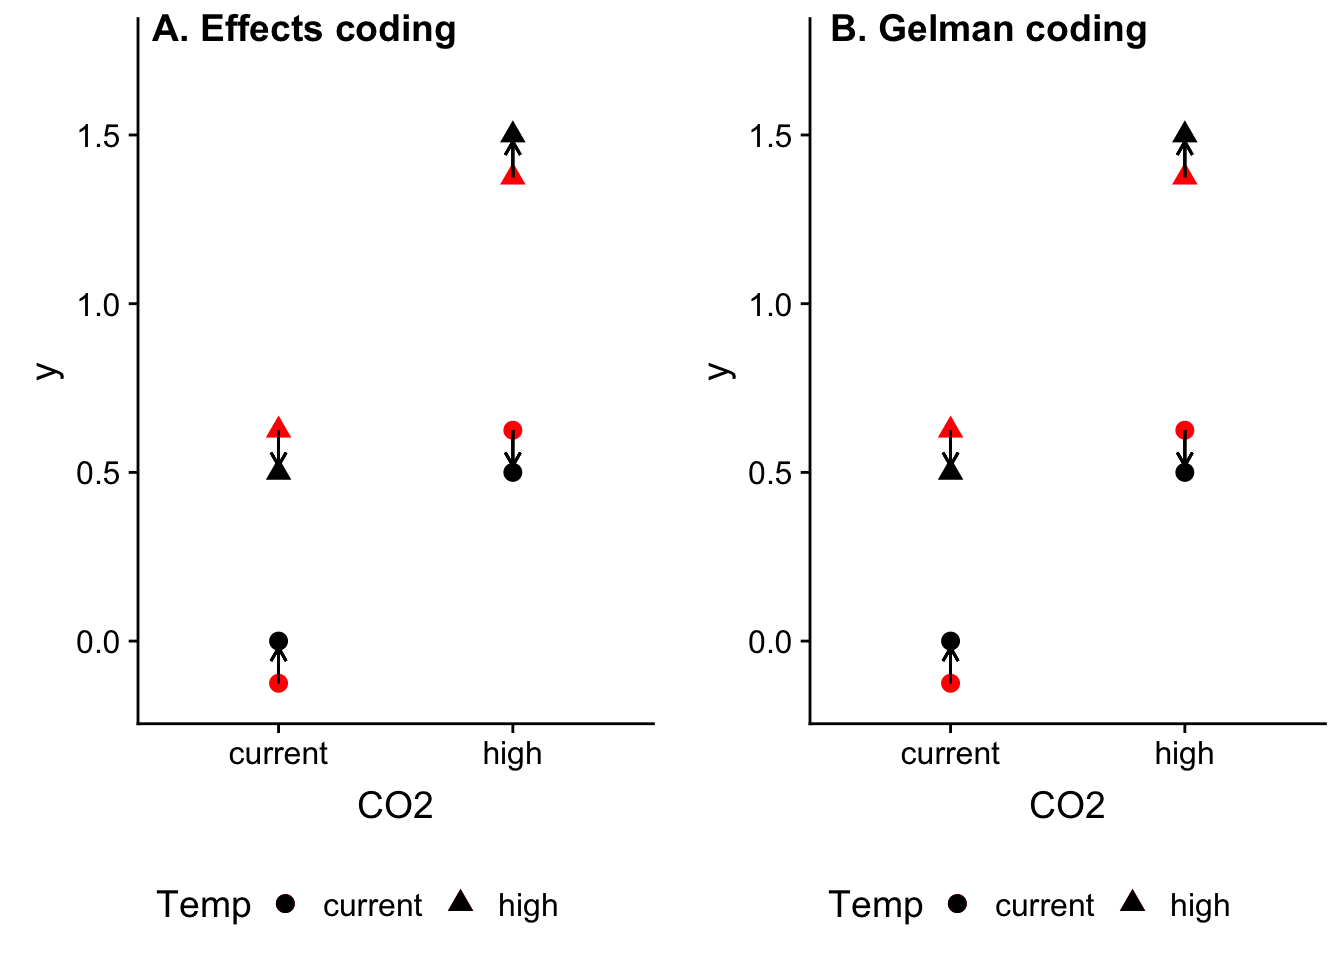
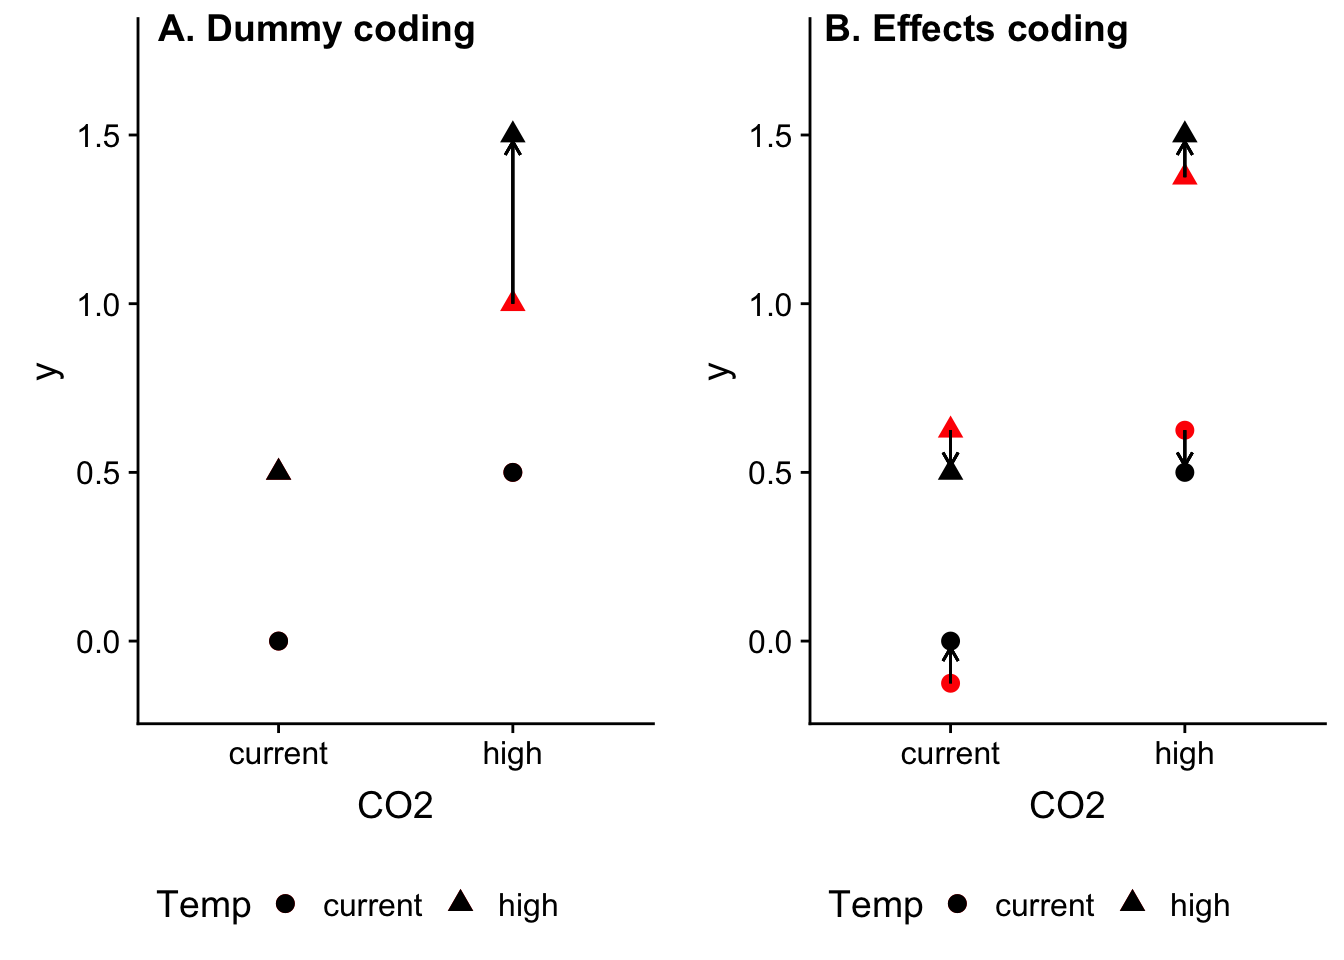
update power of interaction

diff --git a/public/2019/07/is-the-power-to-test-an-interaction-effect-less-than-that-for-a-main-effect/index.html b/public/2019/07/is-the-power-to-test-an-interaction-effect-less-than-that-for-a-main-effect/index.html
@@ -312,8 +312,8 @@ if (!doNotTrack) {
 
 
 <p>I was googling around and somehow landed on a page that stated <a href="https://www.methodology.psu.edu/ra/most/femiscon/">“When effect coding is used, statistical power is the same for all regression coefficients of the same size, whether they correspond to main effects or interactions, and irrespective of the order of the interaction”</a>. Really? How could this be? The p-value for an interaction effect is the same regardless of dummy or effects coding, and, with dummy coding (R’s default), the power of the interaction effect is less than that of the coefficients for the main factors when they have the same magnitude, so my intuition said this statement must be wrong.</p>
-<p><strong>TL;DR</strong> It depends on how one defines “main” effect. If defined as the coefficient of a factor from a dummy-coded model, the power to test the interaction is less than that for a main effect if the two effects have the same magnitude. But, if defined as the coefficient of a factor from an effects-coded model, the power to test the interaction is the same as that for the main effect, if the two have equal magnitude (just as the source states). A question is, <strong>is the coefficient of the interaction as a measure of “effect” using dummy coding misleading since the interaction is entirely allocated to one mean?</strong>. Effects coding divides this magntiude and distributes it among all four means, which makes sense.</p>
-<p><strong>Updated</strong> Andrew Gelman has a highly relevant blog post <a href="https://statmodeling.stat.columbia.edu/2018/03/15/need-16-times-sample-size-estimate-interaction-estimate-main-effect/">You need 16 times the sample size to estimate an interaction than to estimate a main effect</a> that is really minimal in that it focusses entirely on the standard error. Gelman effectively used a -0.5, +0.5 contrast coding but added an update with -1, +1 (effects) coding. This coding is interesting and explored below.</p>
+<p><strong>TL;DR</strong> It depends on how one defines “main” effect or how one parameterizes the model. If “main” effect is defined as the coefficient of a factor from a dummy-coded model (that is, the added effect due to treatment), the power to test the interaction is less than that for a main effect if the two effects have the same magnitude. But, if defined as the coefficient of a factor from an effects-coded model, the power to test the interaction is the same as that for the main effect, if the two have equal magnitude (just as the source states). A question is, <strong>is the coefficient of the interaction as a measure of “effect” using dummy coding misleading since the interaction is entirely allocated to one mean?</strong>. Or, does it make sense, at least for experiments where we think of the effect of the non-reference (or non “control”) levels as “what happens” when we add stuff to the control.</p>
+<p><strong>Updated</strong> I read this when it was posted but forgot about it when I startede this doodle: Andrew Gelman has a highly relevant blog post <a href="https://statmodeling.stat.columbia.edu/2018/03/15/need-16-times-sample-size-estimate-interaction-estimate-main-effect/">You need 16 times the sample size to estimate an interaction than to estimate a main effect</a> that is really minimal in that it focusses entirely on the standard error. Gelman effectively used a -0.5, +0.5 contrast coding but added an update with -1, +1 (effects) coding. This coding is interesting and explored below.</p>
 <div id="some-definitions" class="section level2">
 <h2>Some definitions</h2>
 <p>Consider a <span class="math inline">\(2 \times 2\)</span> factorial experiment, factor A has two levels (-, +), factor B has two levels (-, +), and the means of the combinations are</p>
@@ -453,9 +453,53 @@ intercept
 </div>
 <div id="visualizing-interaction-effects" class="section level2">
 <h2>Visualizing interaction effects</h2>
-<p>In (A) the coefficients of the model are (0, 0.5, 0.5, 0.5) and if we interpret the coefficients as “effects” then the interaction effect is the same as the “main” effects. The interaction effect is shown by the single arrow and it is applied to <span class="math inline">\(\mu_{22}\)</span> only</p>
-<p>In (B), the data are precisely the same as in (A) but interaction is visualized using a model fit using effects coding. The cofficients of the model using effects coding are (0.625, -0.375, -0.375, 0.125) and if we interpret the coefficients as the effects the interaction is 1/3 the magnitude of the main effects. Again, this is the same data as in (A). The interaction is applied to all four means – there isn’t “an” interaction effect but four. And note that the sum of the four interaction effects equals the sum of the one effect in (A).</p>
-<p>So, how we think about the “magnitude” of the interaction depends on how we parameterize the model. I’m coming around to thinking that the interaction “effect” using the interaction coefficient in the dummy coded model (that in A) is an illusion – that is, a better way to think about this is “spreading” it out among all means as in B.</p>
+<p>Given a set of means</p>
+<pre class="r"><code>means_table &lt;- data.frame(c(&quot;$\\mu_{11}=0$&quot;, &quot;$\\mu_{21}=0.5$&quot;), c(&quot;$\\mu_{12}=0.5$&quot;, &quot;$\\mu_{22}=1.5$&quot;))
+row.names(means_table) &lt;- c(&quot;A-&quot;, &quot;A+&quot;)
+colnames(means_table) &lt;- c(&quot;B-&quot;, &quot;B+&quot;)
+kable(means_table, escape = FALSE)</code></pre>
+<table>
+<thead>
+<tr>
+<th style="text-align:left;">
+</th>
+<th style="text-align:left;">
+B-
+</th>
+<th style="text-align:left;">
+B+
+</th>
+</tr>
+</thead>
+<tbody>
+<tr>
+<td style="text-align:left;">
+A-
+</td>
+<td style="text-align:left;">
+<span class="math inline">\(\mu_{11}=0\)</span>
+</td>
+<td style="text-align:left;">
+<span class="math inline">\(\mu_{12}=0.5\)</span>
+</td>
+</tr>
+<tr>
+<td style="text-align:left;">
+A+
+</td>
+<td style="text-align:left;">
+<span class="math inline">\(\mu_{21}=0.5\)</span>
+</td>
+<td style="text-align:left;">
+<span class="math inline">\(\mu_{22}=1.5\)</span>
+</td>
+</tr>
+</tbody>
+</table>
+<p>To generate these data using dummy coding, the coefficients are (0, .5, .5, .5) and using effects coding the coefficients are (.625, -.375, -.375, .125). The interaction coefficient is illustrated below.</p>
+<p>In the dummy coded paramterization (A), if we interpret the coefficients as “effects” then the interaction effect is the same as the “main” effects. The interaction effect is shown by the single arrow and it is applied to <span class="math inline">\(\mu_{22}\)</span> only</p>
+<p>In the effects coded paramterization (B), the means are precisely the same as in (A), and if we interpret the coefficients as the effects, then the interaction effect is 1/3 the magnitude of the main effects. Again, these are the same means as in (A). The difference with A is that the interaction is applied to all four means – there isn’t “an” interaction effect but four. And note that the sum of the four interaction effects equals the sum of the one effect in (A).</p>
+<p>So, how we think about the “magnitude” of the interaction depends on how we parameterize the model or how we think about the effects. If we think of the non-reference (“treated”) levels of Factors A and B (CO2 and Temp) as “adding” something to the control’s value, then, thinking about an interaction using dummy coding makes sense. But if we think about the levels of a factor as simply being variable about a mean, then the interaction using effects coding makes sense, though I might be inclined to model this using a hierarchical rather than fixed effects model.</p>
 <pre class="r"><code>dummy_2_effects &lt;- function(b){
 
   b3 &lt;- numeric(4)
@@ -508,8 +552,8 @@ gg.effects &lt;- ggplot(data=fd, aes(x=CO2, y=y3.a, shape=Temp)) +
   NULL
 
 plot_grid(gg.dummy, gg.effects, ncol=2, labels=c(&quot;A. Dummy coding&quot;, &quot;B. Effects coding&quot;))</code></pre>
-<div class="figure"><span id="fig:unnamed-chunk-3"></span>
-<img src="/post/2019-07-02-is-the-power-to-test-an-interaction-effect-less-than-that-for-a-main-effect_files/figure-html/unnamed-chunk-3-1.png" alt="illustration of interaction effect computed using A) dummy coding and B) effects coding. Black dots are the true means. Red dots are the expected means given only additive effects. The interaction effect is 'what is left' to get from the expectation using only additive effects to the true mean. With a dummy coded model, there is only one interaction effect for the 2 x 2 design. With an effects coded model, there are four interaction effects -- all have the same magnitude but the sign varies by group." width="672" />
+<div class="figure"><span id="fig:unnamed-chunk-4"></span>
+<img src="/post/2019-07-02-is-the-power-to-test-an-interaction-effect-less-than-that-for-a-main-effect_files/figure-html/unnamed-chunk-4-1.png" alt="illustration of interaction effect computed using A) dummy coding and B) effects coding. Black dots are the true means. Red dots are the expected means given only additive effects. The interaction effect is 'what is left' to get from the expectation using only additive effects to the true mean. With a dummy coded model, there is only one interaction effect for the 2 x 2 design. With an effects coded model, there are four interaction effects -- all have the same magnitude but the sign varies by group." width="672" />
 <p class="caption">
 Figure 1: illustration of interaction effect computed using A) dummy coding and B) effects coding. Black dots are the true means. Red dots are the expected means given only additive effects. The interaction effect is ‘what is left’ to get from the expectation using only additive effects to the true mean. With a dummy coded model, there is only one interaction effect for the 2 x 2 design. With an effects coded model, there are four interaction effects – all have the same magnitude but the sign varies by group.
 </p>
@@ -551,7 +595,7 @@ gg.gelman &lt;- ggplot(data=fd, aes(x=CO2, y=yg.a, shape=Temp)) +
   NULL
 
 plot_grid(gg.effects, gg.gelman, ncol=2, labels=c(&quot;A. Effects coding&quot;, &quot;B. Gelman coding&quot;))</code></pre>
-<p><img src="/post/2019-07-02-is-the-power-to-test-an-interaction-effect-less-than-that-for-a-main-effect_files/figure-html/unnamed-chunk-4-1.png" width="672" /></p>
+<p><img src="/post/2019-07-02-is-the-power-to-test-an-interaction-effect-less-than-that-for-a-main-effect_files/figure-html/unnamed-chunk-5-1.png" width="672" /></p>
 </div>
 <div id="the-interaction-effect-computed-using-treatment-dummy-coding-does-not-equal-the-interaction-effect-computed-using-effect-coding." class="section level2">
 <h2>The interaction effect computed using treatment (dummy) coding does not equal the interaction effect computed using effect coding.</h2>

diff --git a/content/post/2019-07-02-is-the-power-to-test-an-interaction-effect-less-than-that-for-a-main-effect.html b/content/post/2019-07-02-is-the-power-to-test-an-interaction-effect-less-than-that-for-a-main-effect.html
@@ -19,8 +19,8 @@ keywords:
 
 
 <p>I was googling around and somehow landed on a page that stated <a href="https://www.methodology.psu.edu/ra/most/femiscon/">“When effect coding is used, statistical power is the same for all regression coefficients of the same size, whether they correspond to main effects or interactions, and irrespective of the order of the interaction”</a>. Really? How could this be? The p-value for an interaction effect is the same regardless of dummy or effects coding, and, with dummy coding (R’s default), the power of the interaction effect is less than that of the coefficients for the main factors when they have the same magnitude, so my intuition said this statement must be wrong.</p>
-<p><strong>TL;DR</strong> It depends on how one defines “main” effect. If defined as the coefficient of a factor from a dummy-coded model, the power to test the interaction is less than that for a main effect if the two effects have the same magnitude. But, if defined as the coefficient of a factor from an effects-coded model, the power to test the interaction is the same as that for the main effect, if the two have equal magnitude (just as the source states). A question is, <strong>is the coefficient of the interaction as a measure of “effect” using dummy coding misleading since the interaction is entirely allocated to one mean?</strong>. Effects coding divides this magntiude and distributes it among all four means, which makes sense.</p>
-<p><strong>Updated</strong> Andrew Gelman has a highly relevant blog post <a href="https://statmodeling.stat.columbia.edu/2018/03/15/need-16-times-sample-size-estimate-interaction-estimate-main-effect/">You need 16 times the sample size to estimate an interaction than to estimate a main effect</a> that is really minimal in that it focusses entirely on the standard error. Gelman effectively used a -0.5, +0.5 contrast coding but added an update with -1, +1 (effects) coding. This coding is interesting and explored below.</p>
+<p><strong>TL;DR</strong> It depends on how one defines “main” effect or how one parameterizes the model. If “main” effect is defined as the coefficient of a factor from a dummy-coded model (that is, the added effect due to treatment), the power to test the interaction is less than that for a main effect if the two effects have the same magnitude. But, if defined as the coefficient of a factor from an effects-coded model, the power to test the interaction is the same as that for the main effect, if the two have equal magnitude (just as the source states). A question is, <strong>is the coefficient of the interaction as a measure of “effect” using dummy coding misleading since the interaction is entirely allocated to one mean?</strong>. Or, does it make sense, at least for experiments where we think of the effect of the non-reference (or non “control”) levels as “what happens” when we add stuff to the control.</p>
+<p><strong>Updated</strong> I read this when it was posted but forgot about it when I startede this doodle: Andrew Gelman has a highly relevant blog post <a href="https://statmodeling.stat.columbia.edu/2018/03/15/need-16-times-sample-size-estimate-interaction-estimate-main-effect/">You need 16 times the sample size to estimate an interaction than to estimate a main effect</a> that is really minimal in that it focusses entirely on the standard error. Gelman effectively used a -0.5, +0.5 contrast coding but added an update with -1, +1 (effects) coding. This coding is interesting and explored below.</p>
 <div id="some-definitions" class="section level2">
 <h2>Some definitions</h2>
 <p>Consider a <span class="math inline">\(2 \times 2\)</span> factorial experiment, factor A has two levels (-, +), factor B has two levels (-, +), and the means of the combinations are</p>
@@ -160,9 +160,53 @@ intercept
 </div>
 <div id="visualizing-interaction-effects" class="section level2">
 <h2>Visualizing interaction effects</h2>
-<p>In (A) the coefficients of the model are (0, 0.5, 0.5, 0.5) and if we interpret the coefficients as “effects” then the interaction effect is the same as the “main” effects. The interaction effect is shown by the single arrow and it is applied to <span class="math inline">\(\mu_{22}\)</span> only</p>
-<p>In (B), the data are precisely the same as in (A) but interaction is visualized using a model fit using effects coding. The cofficients of the model using effects coding are (0.625, -0.375, -0.375, 0.125) and if we interpret the coefficients as the effects the interaction is 1/3 the magnitude of the main effects. Again, this is the same data as in (A). The interaction is applied to all four means – there isn’t “an” interaction effect but four. And note that the sum of the four interaction effects equals the sum of the one effect in (A).</p>
-<p>So, how we think about the “magnitude” of the interaction depends on how we parameterize the model. I’m coming around to thinking that the interaction “effect” using the interaction coefficient in the dummy coded model (that in A) is an illusion – that is, a better way to think about this is “spreading” it out among all means as in B.</p>
+<p>Given a set of means</p>
+<pre class="r"><code>means_table &lt;- data.frame(c(&quot;$\\mu_{11}=0$&quot;, &quot;$\\mu_{21}=0.5$&quot;), c(&quot;$\\mu_{12}=0.5$&quot;, &quot;$\\mu_{22}=1.5$&quot;))
+row.names(means_table) &lt;- c(&quot;A-&quot;, &quot;A+&quot;)
+colnames(means_table) &lt;- c(&quot;B-&quot;, &quot;B+&quot;)
+kable(means_table, escape = FALSE)</code></pre>
+<table>
+<thead>
+<tr>
+<th style="text-align:left;">
+</th>
+<th style="text-align:left;">
+B-
+</th>
+<th style="text-align:left;">
+B+
+</th>
+</tr>
+</thead>
+<tbody>
+<tr>
+<td style="text-align:left;">
+A-
+</td>
+<td style="text-align:left;">
+<span class="math inline">\(\mu_{11}=0\)</span>
+</td>
+<td style="text-align:left;">
+<span class="math inline">\(\mu_{12}=0.5\)</span>
+</td>
+</tr>
+<tr>
+<td style="text-align:left;">
+A+
+</td>
+<td style="text-align:left;">
+<span class="math inline">\(\mu_{21}=0.5\)</span>
+</td>
+<td style="text-align:left;">
+<span class="math inline">\(\mu_{22}=1.5\)</span>
+</td>
+</tr>
+</tbody>
+</table>
+<p>To generate these data using dummy coding, the coefficients are (0, .5, .5, .5) and using effects coding the coefficients are (.625, -.375, -.375, .125). The interaction coefficient is illustrated below.</p>
+<p>In the dummy coded paramterization (A), if we interpret the coefficients as “effects” then the interaction effect is the same as the “main” effects. The interaction effect is shown by the single arrow and it is applied to <span class="math inline">\(\mu_{22}\)</span> only</p>
+<p>In the effects coded paramterization (B), the means are precisely the same as in (A), and if we interpret the coefficients as the effects, then the interaction effect is 1/3 the magnitude of the main effects. Again, these are the same means as in (A). The difference with A is that the interaction is applied to all four means – there isn’t “an” interaction effect but four. And note that the sum of the four interaction effects equals the sum of the one effect in (A).</p>
+<p>So, how we think about the “magnitude” of the interaction depends on how we parameterize the model or how we think about the effects. If we think of the non-reference (“treated”) levels of Factors A and B (CO2 and Temp) as “adding” something to the control’s value, then, thinking about an interaction using dummy coding makes sense. But if we think about the levels of a factor as simply being variable about a mean, then the interaction using effects coding makes sense, though I might be inclined to model this using a hierarchical rather than fixed effects model.</p>
 <pre class="r"><code>dummy_2_effects &lt;- function(b){
 
   b3 &lt;- numeric(4)
@@ -215,8 +259,8 @@ gg.effects &lt;- ggplot(data=fd, aes(x=CO2, y=y3.a, shape=Temp)) +
   NULL
 
 plot_grid(gg.dummy, gg.effects, ncol=2, labels=c(&quot;A. Dummy coding&quot;, &quot;B. Effects coding&quot;))</code></pre>
-<div class="figure"><span id="fig:unnamed-chunk-3"></span>
-<img src="/post/2019-07-02-is-the-power-to-test-an-interaction-effect-less-than-that-for-a-main-effect_files/figure-html/unnamed-chunk-3-1.png" alt="illustration of interaction effect computed using A) dummy coding and B) effects coding. Black dots are the true means. Red dots are the expected means given only additive effects. The interaction effect is 'what is left' to get from the expectation using only additive effects to the true mean. With a dummy coded model, there is only one interaction effect for the 2 x 2 design. With an effects coded model, there are four interaction effects -- all have the same magnitude but the sign varies by group." width="672" />
+<div class="figure"><span id="fig:unnamed-chunk-4"></span>
+<img src="/post/2019-07-02-is-the-power-to-test-an-interaction-effect-less-than-that-for-a-main-effect_files/figure-html/unnamed-chunk-4-1.png" alt="illustration of interaction effect computed using A) dummy coding and B) effects coding. Black dots are the true means. Red dots are the expected means given only additive effects. The interaction effect is 'what is left' to get from the expectation using only additive effects to the true mean. With a dummy coded model, there is only one interaction effect for the 2 x 2 design. With an effects coded model, there are four interaction effects -- all have the same magnitude but the sign varies by group." width="672" />
 <p class="caption">
 Figure 1: illustration of interaction effect computed using A) dummy coding and B) effects coding. Black dots are the true means. Red dots are the expected means given only additive effects. The interaction effect is ‘what is left’ to get from the expectation using only additive effects to the true mean. With a dummy coded model, there is only one interaction effect for the 2 x 2 design. With an effects coded model, there are four interaction effects – all have the same magnitude but the sign varies by group.
 </p>
@@ -258,7 +302,7 @@ gg.gelman &lt;- ggplot(data=fd, aes(x=CO2, y=yg.a, shape=Temp)) +
   NULL
 
 plot_grid(gg.effects, gg.gelman, ncol=2, labels=c(&quot;A. Effects coding&quot;, &quot;B. Gelman coding&quot;))</code></pre>
-<p><img src="/post/2019-07-02-is-the-power-to-test-an-interaction-effect-less-than-that-for-a-main-effect_files/figure-html/unnamed-chunk-4-1.png" width="672" /></p>
+<p><img src="/post/2019-07-02-is-the-power-to-test-an-interaction-effect-less-than-that-for-a-main-effect_files/figure-html/unnamed-chunk-5-1.png" width="672" /></p>
 </div>
 <div id="the-interaction-effect-computed-using-treatment-dummy-coding-does-not-equal-the-interaction-effect-computed-using-effect-coding." class="section level2">
 <h2>The interaction effect computed using treatment (dummy) coding does not equal the interaction effect computed using effect coding.</h2>
